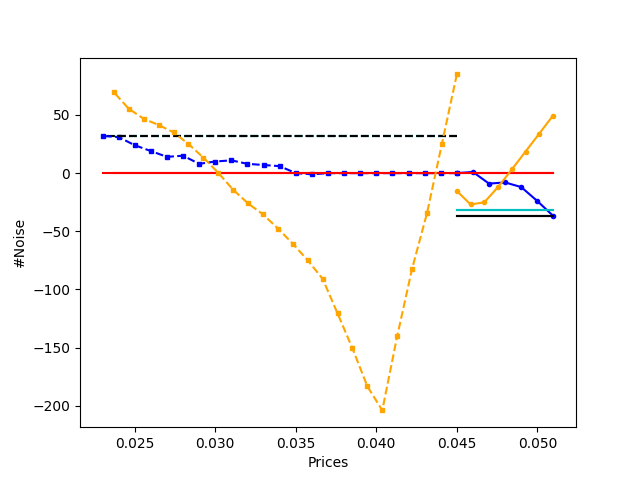
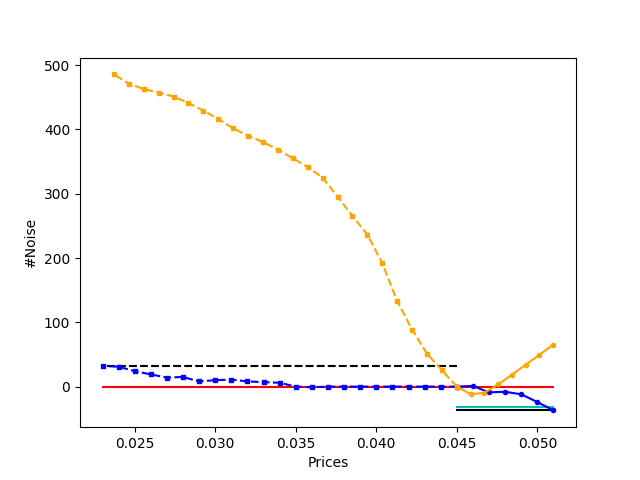
plot

diff --git a/core.py b/core.py
@@ -2129,24 +2129,31 @@ class MyModel(object):
                   fake_price_list, fake_noise_list,
                   price_list, noise_list,
                   fake_B1, fake_B2, fake_B3,
-                  _B1, _B2, _B3, color='blue'):
+                  _B1, _B2, _B3, color='blue', plot_target_line=True):
         fake_l = 10 if len(fake_price_list) == 1 else len(fake_price_list)
         l = 10 if len(price_list) == 1 else len(price_list)
         fake_B1, fake_B2, fake_B3 = np.array([fake_B1]*fake_l), np.array([fake_B2]*fake_l), np.array([fake_B3]*fake_l)
         _B1, _B2, _B3 = np.array([_B1]*l), np.array([_B2]*l), np.array([_B3]*l)
 
-        fake_B2 = fake_B2 - fake_B1
-        fake_B3 = fake_B3 - fake_B1
-        fake_noise_list = fake_noise_list - fake_B1
-        fake_B1 = fake_B1 - fake_B1
+        if plot_target_line is True:
+            fake_B2 = fake_B2 - fake_B1
+            fake_B3 = fake_B3 - fake_B1
+            fake_noise_list = fake_noise_list - fake_B1
+            fake_B1 = fake_B1 - fake_B1
 
-        _B2 = _B2 - _B1
-        _B3 = _B3 - _B1
-        noise_list = noise_list - _B1
-        _B1 = _B1 - _B1
+            _B2 = _B2 - _B1
+            _B3 = _B3 - _B1
+            noise_list = noise_list - _B1
+            _B1 = _B1 - _B1
+            ax.plot(fake_price_list, fake_B1, 'r', fake_price_list, fake_B2, 'c--', fake_price_list, fake_B3, 'k--')
+            ax.plot(price_list, _B1, 'r', price_list, _B2, 'c', price_list, _B3, 'k-')
 
-        ax.plot(fake_price_list, fake_B1, 'r', fake_price_list, fake_B2, 'c--', fake_price_list, fake_B3, 'k--')
-        ax.plot(price_list, _B1, 'r', price_list, _B2, 'c', price_list, _B3, 'k-')
+        else:
+            fake_noise_list = fake_noise_list - fake_B1
+            fake_B1 = fake_B1 - fake_B1
+            noise_list = noise_list - _B1
+            _B1 = _B1 - _B1
+
         ax.plot(fake_price_list, fake_noise_list, color=color, marker='s', markersize=3, linestyle='--')
         ax.plot(price_list, noise_list, color=color, marker='.', markersize=6, linestyle='-')
         ax.set_xlabel("Prices")
@@ -2159,10 +2166,12 @@ class MyModel(object):
                            interpolated_noises,
                            fake_B1, fake_B2, fake_B3,
                            _B1, _B2, _B3):
+
         from matplotlib import colors as mcolors
+        # import ipdb; ipdb.set_trace()
 
         self._plot_sim(ax,
                        fake_interpolated_prices, fake_interpolated_noises,
                        interpolated_prices, interpolated_noises,
-                       fake_B1, fake_B2, fake_B3,
-                       _B1, _B2, _B3, mcolors.CSS4_COLORS['orange'])
+                       fake_interpolated_noises[0], fake_B2, fake_B3,
+                       interpolated_noises[0], _B2, _B3, mcolors.CSS4_COLORS['orange'], plot_target_line=False)
